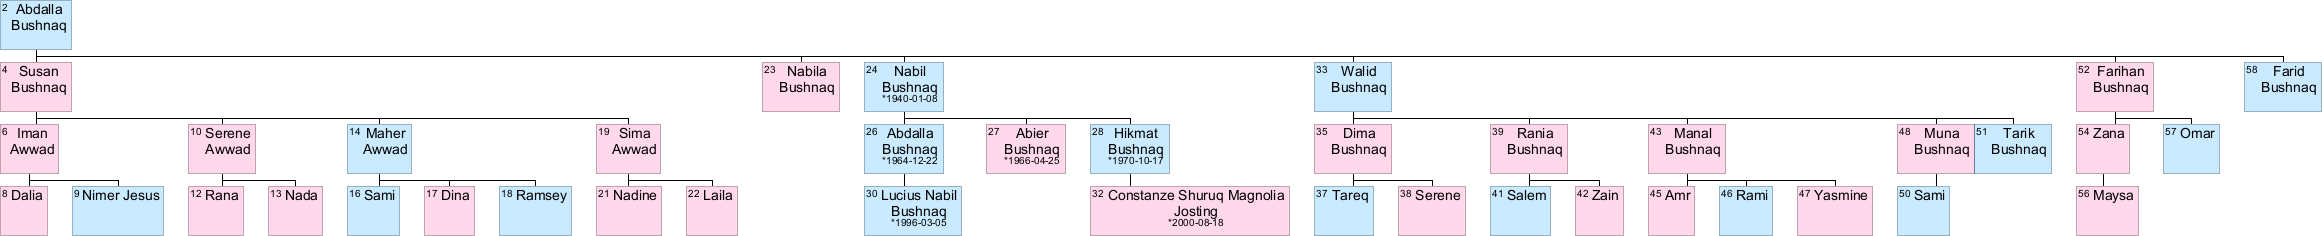
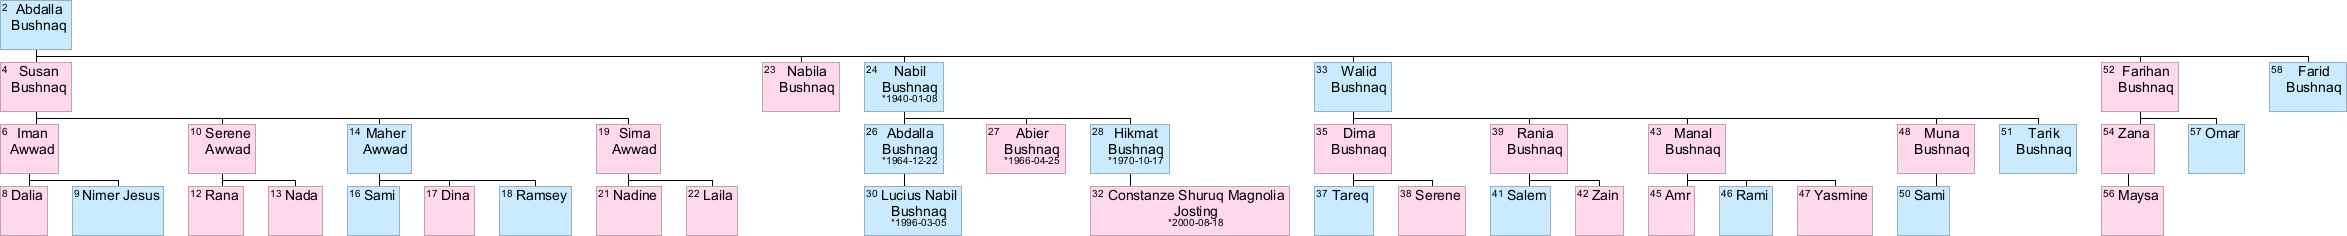
optimized tree by starting children below root family member

diff --git a/src/main/java/de/bushnaq/abdalla/family/person/DrawablePerson.java b/src/main/java/de/bushnaq/abdalla/family/person/DrawablePerson.java
@@ -101,48 +101,74 @@ public abstract class DrawablePerson extends Person {
 	}
 
 	private void drawConnectors(Context context, Graphics2D graphics, int mapX1, int mapX2, int mapY1, int mapY2) {
-		// only child and no children
+		int dy = 0;// childIndex;
+		// only child with no children
 		if (isFirstChild() && isLastChild() && !hasChildren()) {
-			Person spouse = mother;
-			if (father.x > mother.x)
-				spouse = father;
-			int	px	= spouse.x;
-			int	pw	= (int) spouse.width;
+			Person	spouseParent	= mother;
+			Person	rootParent		= father;
+			if (mother.isMember()) {
+				spouseParent = father;
+				rootParent = mother;
+			}
+			int	px	= spouseParent.x;
+			int	pw	= (int) spouseParent.width;
+			if (rootParent.getSpouseList().size() == 1) {
+				px = rootParent.x;
+				pw = (int) rootParent.width;
+			} else {
+				px = spouseParent.x;
+				pw = (int) spouseParent.width;
+			}
 			// vertical connector
 			graphics.fillRect(px + (pw) / 2, mapY1 - PERSON_Y_SPACE, 1, PERSON_Y_SPACE);
 		} else {
 			// first child horizontal connector starts at the vertical one
 			if (isFirstChild()) {
-				Person spouse = mother;
-				if (father.x > mother.x)
-					spouse = father;
-				int	px	= spouse.x;
-				int	pw	= (int) spouse.width;
-//				int	uw	= mapX2 - mapX1;
+				Person	spouseParent	= mother;
+				Person	rootParent		= father;
+				if (mother.isMember()) {
+					spouseParent = father;
+					rootParent = mother;
+				}
+				int	px	= spouseParent.x;
+				int	pw	= (int) spouseParent.width;
+				if (rootParent.getSpouseList().size() == 1) {
+					px = rootParent.x;
+					pw = (int) rootParent.width;
+				} else {
+					px = spouseParent.x;
+					pw = (int) spouseParent.width;
+				}
 				graphics.setColor(Color.black);
 				// horizontal connector
-				graphics.fillRect(px + pw / 2, mapY1 - PERSON_Y_SPACE / 2, nextPersonX - (px + pw / 2), 1);
-//				graphics.fillRect(px + (pw) / 2, mapY1 - PERSON_Y_SPACE / 2, (mapX2 - mapX1) / 2 + 1 + PERSON_X_SPACE / 2, 1);
+				graphics.fillRect(px + pw / 2, mapY1 - PERSON_Y_SPACE / 2 + dy, nextPersonX - (px + pw / 2), 1);
 				// vertical connector
 				graphics.fillRect(px + (pw) / 2, mapY1 - PERSON_Y_SPACE, 1, PERSON_Y_SPACE);
 			}
 			// last child horizontal connector without spouse ends at the vertical
-			else if (isLastChild() && (!hasChildren() || !context.includeSpouse)) {
+			else if (isLastChild()) {
 				graphics.setColor(Color.black);
-				graphics.fillRect(mapX1 - PERSON_X_SPACE / 2, mapY1 - PERSON_Y_SPACE / 2, (mapX2 - mapX1) / 2 + PERSON_X_SPACE / 2, 1);
+				graphics.fillRect(mapX1, mapY1 - PERSON_Y_SPACE / 2, (mapX2 - mapX1) / 2, 1);
 			}
 		}
 		// all the children in between
-		if (!isFirstChild() && (!isLastChild() || (hasChildren() && context.includeSpouse)) && !isSpouseOfLastChild()) {
+		if (!isFirstChild() && !isLastChild() && isMember()) {
 			graphics.setColor(Color.black);
-			graphics.fillRect(mapX1 - PERSON_X_SPACE / 2, mapY1 - PERSON_Y_SPACE / 2, nextPersonX - (mapX1 - PERSON_X_SPACE / 2), 1);
-//			graphics.fillRect(mapX1 - PERSON_X_SPACE / 2, mapY1 - PERSON_Y_SPACE / 2, mapX2 - mapX1 + PERSON_X_SPACE, 1);
+			if (getSpouseList().size() == 1) {
+//				graphics.setColor(Color.red);
+				Person spouse = getSpouseList().first();
+				graphics.fillRect(mapX1, mapY1 - PERSON_Y_SPACE / 2 + dy, nextPersonX - (mapX1) /*- (int)(spouse.width - Person.PERSON_X_SPACE)*/, 1);
+//				graphics.setColor(Color.black);
+			} else {
+//				graphics.setColor(Color.green);
+				graphics.fillRect(mapX1, mapY1 - PERSON_Y_SPACE / 2 + dy, nextPersonX - (mapX1), 1);
+//				graphics.setColor(Color.black);
+			}
 		}
-		if (isSpouseOfLastChild()) {
-			graphics.setColor(Color.black);
-//			graphics.fillRect(mapX1 - PERSON_X_SPACE / 2, mapY1 - PERSON_Y_SPACE / 2, nextPersonX -(mapX1 - PERSON_X_SPACE / 2), 1);
-			graphics.fillRect(mapX1 - PERSON_X_SPACE / 2, mapY1 - PERSON_Y_SPACE / 2, (mapX2 - mapX1) / 2 + PERSON_X_SPACE / 2, 1);
-		}
+//		if (isSpouseOfLastChild()) {
+//			graphics.setColor(Color.black);
+//			graphics.fillRect(mapX1 - PERSON_X_SPACE / 2, mapY1 - PERSON_Y_SPACE / 2, (mapX2 - mapX1) / 2 + PERSON_X_SPACE / 2, 1);
+//		}
 
 		// vertical connector
 		if (!isFirstChild() && !isSpouse()) {
@@ -150,13 +176,17 @@ public abstract class DrawablePerson extends Person {
 		}
 
 		// sexual relation connector
-		if (hasChildren() && isChild() && context.includeSpouse) {
+		if (hasChildren() && isMember() && context.includeSpouse) {
 			Stroke stroke = graphics.getStroke();
 			graphics.setStroke(new BasicStroke(STANDARD_LINE_STROKE_WIDTH, BasicStroke.CAP_BUTT, BasicStroke.JOIN_BEVEL, 0, new float[] { 3 }, 0));
 			graphics.setColor(Color.black);
 			graphics.drawLine(mapX2, mapY1 + (mapY2 - mapY1) / 2, mapX2 + PERSON_X_SPACE, mapY1 + (mapY2 - mapY1) / 2);
 			graphics.setStroke(stroke);
 		}
+	}
+
+	public boolean isMember() {
+		return attribute.member;
 	}
 
 	protected static final float STANDARD_LINE_STROKE_WIDTH = 3.1f;

diff --git a/src/main/java/de/bushnaq/abdalla/family/tree/HorizontalTree.java b/src/main/java/de/bushnaq/abdalla/family/tree/HorizontalTree.java
@@ -9,17 +9,26 @@ public class HorizontalTree extends Tree {
 	@Override
 	int position(Context context, Person person) {
 		person.attribute.show = true;
+		person.attribute.member = true;
 		logger.info(String.format("positioning %s", person.toString()));
 		if (context.includeSpouse) {
-			int			pX			= (int) (person.x + person.width + Person.PERSON_X_SPACE);
+			int pX;
+			if (person.getSpouseList().size() == 1)
+				pX = (int) (person.x);
+			else
+				pX = (int) (person.x + person.width + Person.PERSON_X_SPACE);
 			person.nextPersonX = pX;
 			PersonList	spouseList	= person.getSpouseList();
+			int			childIndex	= 0;
 			for (Person spouse : spouseList) {
 				if (person.isLastChild()) {
 					spouse.setSpouseOfLastChild(true);
 				}
 
-				spouse.x = pX;
+				if (person.getSpouseList().size() == 1)
+					spouse.x = (int) (pX + person.width + Person.PERSON_X_SPACE);
+				else
+					spouse.x = pX;
 				spouse.y = person.y;
 				spouse.setSpouse(true);
 				person.nextPersonX = pX;
@@ -27,6 +36,7 @@ public class HorizontalTree extends Tree {
 				boolean		firstChild		= true;
 				PersonList	childrenList	= person.getChildrenList(spouse);
 				for (Person child : childrenList) {
+					child.childIndex = childIndex++;
 					spouse.attribute.show = true;
 					child.setIsChild(true);
 					if (firstChild) {
@@ -40,7 +50,13 @@ public class HorizontalTree extends Tree {
 					child.y = (int) (spouse.y + Person.PERSON_HEIGHT + Person.PERSON_Y_SPACE);
 					pX = position(context, child);
 				}
-				spouse.nextPersonX = pX;
+				if (person.getSpouseList().size() == 1) {
+					pX = Math.max(pX, (int) (spouse.x + spouse.width + Person.PERSON_X_SPACE));
+					person.nextPersonX = pX;
+					spouse.nextPersonX = pX;
+				} else {
+					spouse.nextPersonX = pX;
+				}
 			}
 			return pX;
 		} else {
@@ -52,7 +68,9 @@ public class HorizontalTree extends Tree {
 			else
 				pX = (int) (person.x + person.width + Person.PERSON_X_SPACE);
 			person.nextPersonX = pX;
+			int childIndex = 0;
 			for (Person child : childrenList) {
+				child.childIndex = childIndex++;
 				child.setIsChild(true);
 				if (firstChild) {
 					child.setFirstChild(true);
@@ -65,6 +83,7 @@ public class HorizontalTree extends Tree {
 				child.y = (int) (person.y + Person.PERSON_HEIGHT + Person.PERSON_Y_SPACE);
 				pX = position(context, child);
 			}
+			pX = Math.max(pX, (int) (person.x + person.width + Person.PERSON_X_SPACE));
 			person.nextPersonX = pX;
 			return (int) (pX);
 		}

diff --git a/src/main/java/de/bushnaq/abdalla/family/person/Attribute.java b/src/main/java/de/bushnaq/abdalla/family/person/Attribute.java
@@ -1,10 +1,11 @@
 package de.bushnaq.abdalla.family.person;
 
 public class Attribute {
-	boolean	child				= false;	// child of a member of the family
-	boolean	firstChild			= false;	// first child born of a sexual relation
-	boolean	lastChild			= false;	// last child born of a sexual relation
-	boolean	spouse				= false;	// spouse of member of family
-	boolean	spouseOfLastChild	= false;	// spouse of the last child of this branch of the family, used by algorithm to decide where to draw the line for children
+	boolean			child				= false;	// child of a member of the family
+	boolean			firstChild			= false;	// first child born of a sexual relation
+	boolean			lastChild			= false;	// last child born of a sexual relation
+	boolean			spouse				= false;	// spouse of member of family
+	boolean			spouseOfLastChild	= false;	// spouse of the last child of this branch of the family, used by algorithm to decide where to draw the line for children
 	public boolean	show				= false;	// only draw this person if true
+	public boolean	member				= false;	// member of the family, at this moment this also means the root of his siblings
 }

diff --git a/src/main/java/de/bushnaq/abdalla/family/person/Person.java b/src/main/java/de/bushnaq/abdalla/family/person/Person.java
@@ -20,6 +20,7 @@ public abstract class Person extends BasicFamilyMember {
 	public float				width;
 	public int					x				= 0;
 	public int					y				= 0;
+	public int					childIndex;
 
 	public Person(PersonList personList, int id, String firstName, String lastName, Date born, Date died, Male father, Female mother) {
 		super(id, firstName, lastName, born, died, father, mother);
